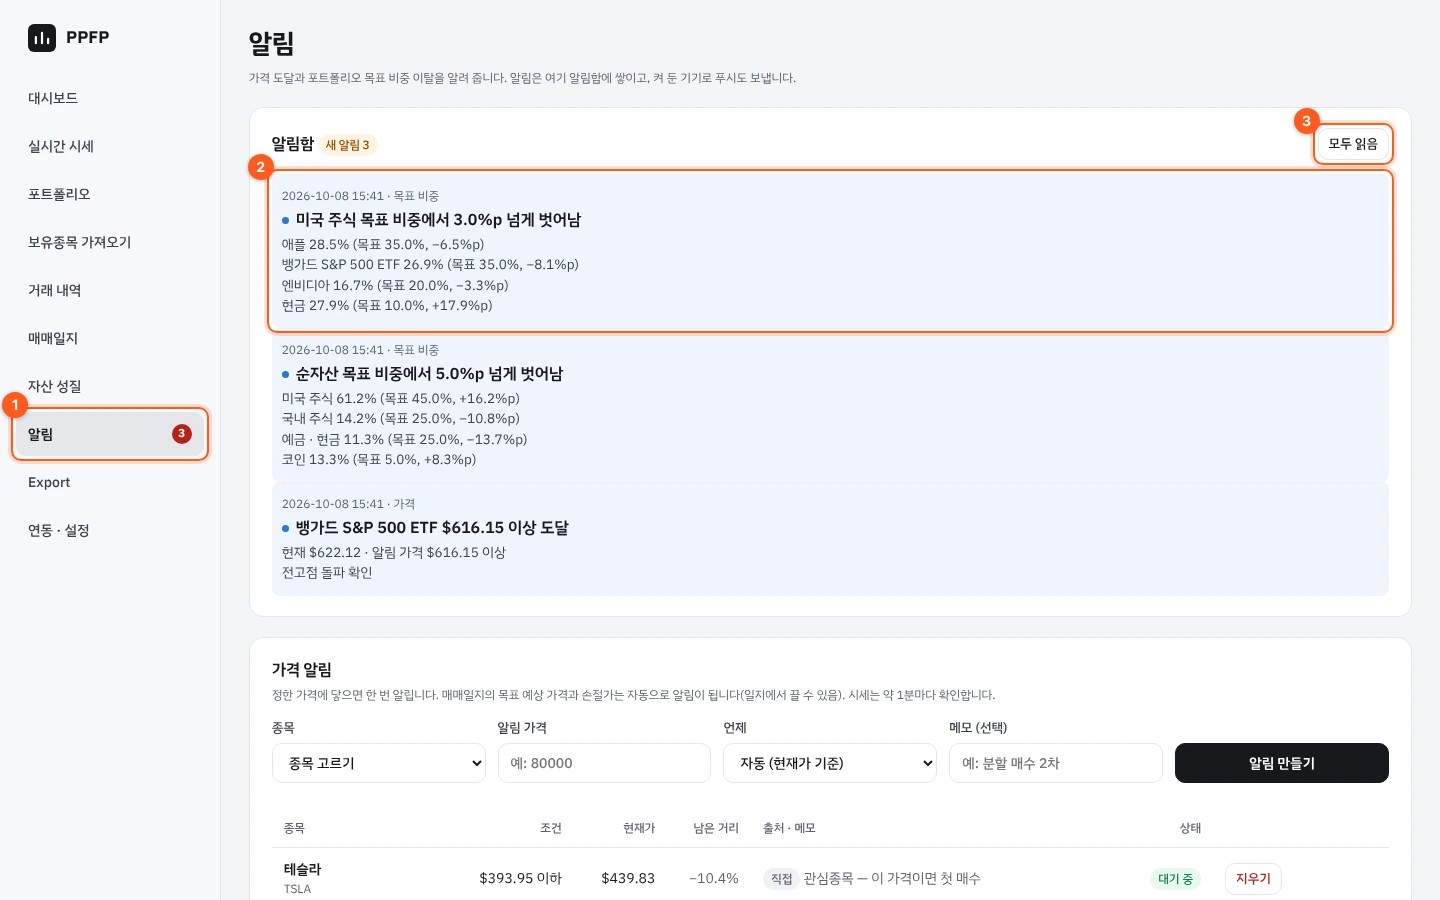
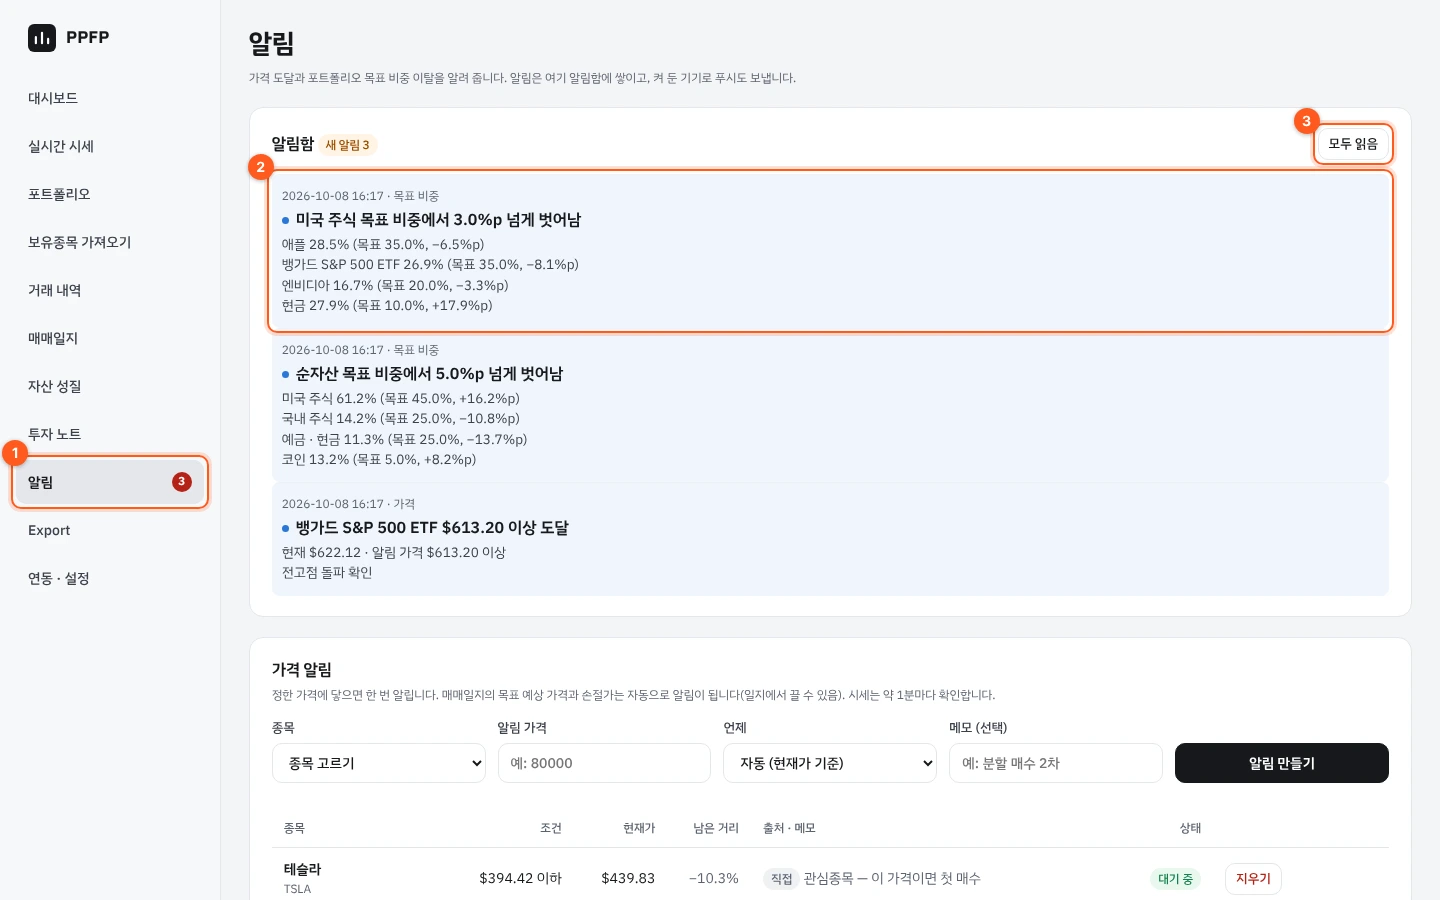
Document investment notes, with new screens
User guide chapter for memos, quick memo, book notes, investor profiles
and keywords, and how properties link them to traits and stocks. Notes on
the holding page card and the journal tree side window. Demo seed gains
investors, a book and memos; captures hide the memo button except on the
quick memo shot.

Claude-Session: https://claude.ai/code/session_019GZ27AZDMeKkp4rfYLN2LS

Changed region(s): [[0.0, 0.4356, 0.1562, 0.6533], [0.3438, 0.9644, 0.375, 0.9956]]

diff --git a/scripts/docs/capture.ts b/scripts/docs/capture.ts
@@ -62,6 +62,8 @@ interface Shot {
   /** Elements to crop to (their union, padded). Omit for the first screen. */
   clip?: Find[];
   pad?: number;
+  /** Keep the floating quick-memo button (hidden elsewhere so it does not cover content) */
+  memo?: boolean;
 }
 interface Ids {
   root: string;
@@ -73,6 +75,9 @@ interface Ids {
   allWeather: string;
   assetClass: string;
   equityStyle: string;
+  samsung: string;
+  buffett: string;
+  book: string;
 }
 
 const card = (heading: string, sel = 'h2'): Find => ({ sel, text: heading, closest: '.card' });
@@ -362,6 +367,68 @@ const SHOTS: Shot[] = [
     ],
     clip: [{ sel: '.bn-suggestion-menu' }, { sel: '.bn-editor [data-content-type="heading"]' }],
   },
+  {
+    file: 'notes',
+    path: () => '/notes',
+    wait: 2000,
+    clip: [{ sel: '.page-head' }, { sel: '.note-grid' }],
+    marks: [{ sel: '[aria-label="투자 노트"]' }, { sel: 'textarea', closest: '.card' }, { sel: '.hashtag' }, { sel: '.note-card .kchip', closest: '.inline' }, { sel: 'form[method="get"]' }],
+  },
+  {
+    file: 'quick-memo',
+    path: (ids) => `/holdings/${ids.samsung}`,
+    wait: 2000,
+    memo: true,
+    steps: [{ click: { sel: '.memo-fab' } }, { until: "!!document.querySelector('.memo-drawer textarea')" }, { set: { sel: '.memo-drawer textarea' }, value: '실적 발표 후 외국인 순매수 전환. 목표가 다시 점검 #가치투자' }, { wait: 600 }],
+    marks: [{ sel: '.memo-fab' }, { sel: '.memo-drawer textarea' }, { sel: '.memo-drawer .sub', text: 'Ctrl+Enter' }],
+  },
+  {
+    file: 'sages',
+    path: () => '/sages',
+    wait: 1500,
+    clip: [{ sel: 'h2', text: '내가 정리한 거장', closest: 'section' }, { sel: 'h2', text: '거장 추가', closest: 'section' }],
+    pad: 16,
+    marks: [{ sel: '.badge.ok' }, { sel: 'button.primary', text: '추가' }, { sel: 'button', text: '직접 추가' }],
+  },
+  {
+    file: 'sage-detail',
+    path: (ids) => `/sages/${ids.buffett}`,
+    wait: 4000,
+    width: 1280,
+    clip: [{ sel: '.doc-bar' }, { sel: 'details.card' }],
+    marks: [{ sel: '.props' }, { sel: 'span', text: '속성 —', closest: 'section' }, { sel: 'details.card .related' }],
+  },
+  {
+    file: 'book-detail',
+    path: (ids) => `/books/${ids.book}`,
+    wait: 4000,
+    width: 1280,
+    clip: [{ sel: '.doc-bar' }, { sel: '.doc-body' }],
+    marks: [{ sel: '[aria-label="읽은 상태"]' }, { sel: 'span', text: '속성 —', closest: 'section' }, { sel: 'details.card' }, { sel: '.doc-body' }],
+  },
+  {
+    file: 'topics',
+    path: () => '/topics',
+    wait: 2000,
+    width: 1280,
+    clip: [{ sel: '.topic-layout' }],
+    pad: 16,
+    marks: [{ sel: '[aria-label="키워드 목록"]' }, { sel: 'span', text: '연결 —', closest: 'div' }],
+  },
+  {
+    file: 'holding-knowledge',
+    path: (ids) => `/holdings/${ids.samsung}`,
+    wait: 2000,
+    width: 1280,
+    clip: [{ sel: '#knowledge' }],
+  },
+  {
+    file: 'journal-tree-related',
+    path: (ids) => `/journal?view=tree&by=${ids.equityStyle}`,
+    wait: 2500,
+    steps: [{ press: { sel: '.tree-node.k-category' } }, { until: "!!document.querySelector('.drawer.tree-detail .related')", timeout: 20_000 }, { wait: 800 }],
+    marks: [{ sel: '.tree-node.k-category' }, { sel: '.drawer.tree-detail .related' }],
+  },
   { file: 'export', path: () => '/export', wait: 1000, clip: [{ sel: 'main' }], pad: 0 },
   { file: 'mobile-market', path: () => '/market', wait: 5000, mobile: true, width: 390, height: 844, scale: 2 },
 ];
@@ -400,7 +467,7 @@ window.__docs = {
   },
   set(f, value) {
     const el = this.find(f);
-    const proto = el instanceof HTMLSelectElement ? HTMLSelectElement.prototype : HTMLInputElement.prototype;
+    const proto = el instanceof HTMLSelectElement ? HTMLSelectElement.prototype : el instanceof HTMLTextAreaElement ? HTMLTextAreaElement.prototype : HTMLInputElement.prototype;
     Object.getOwnPropertyDescriptor(proto, 'value').set.call(el, value);
     el.dispatchEvent(new Event('input', { bubbles: true }));
     el.dispatchEvent(new Event('change', { bubbles: true }));
@@ -514,6 +581,7 @@ async function capture(cdp: Cdp, shot: Shot, ids: Ids, token: string) {
       return r.result.value;
     };
     await run(PAGE_HELPERS);
+    if (!shot.memo) await run("document.head.insertAdjacentHTML('beforeend', '<style>.memo-fab{display:none!important}</style>')");
     for (const step of shot.steps ?? []) {
       if ('wait' in step) await sleep(step.wait);
       else if ('until' in step) {
@@ -611,6 +679,9 @@ async function main() {
       allWeather: (await db.traitGroup.findFirstOrThrow({ where: { preset: 'allWeather' } })).id,
       assetClass: (await db.traitGroup.findFirstOrThrow({ where: { preset: 'assetClass' } })).id,
       equityStyle: (await db.traitGroup.findFirstOrThrow({ where: { preset: 'equityStyle' } })).id,
+      samsung: (await db.holding.findFirstOrThrow({ where: { asset: { symbol: '005930' } } })).id,
+      buffett: (await db.sage.findFirstOrThrow({ where: { preset: 'buffett' } })).id,
+      book: (await db.book.findFirstOrThrow()).id,
     };
     await db.$disconnect();
 

diff --git a/scripts/docs/seed-demo.ts b/scripts/docs/seed-demo.ts
@@ -2,7 +2,8 @@
  * Fills an empty database with the fictional demo account used for the user
  * guide's screenshots: a portfolio tree, a year of stock trades, an imported
  * brokerage account, a replayed 업비트 history, a manual deposit, a few
- * trade journal entries, asset trait groups, price alerts and target weights.
+ * trade journal entries, asset trait groups, price alerts and target weights,
+ * and investment notes (memos, a book summary, investor profiles).
  *
  * Run by scripts/docs/capture.ts against its own throwaway database; never
  * against real data. Broker calls go to the fake servers in fake-market.cjs.
@@ -19,6 +20,7 @@ import { syncExchangeHistory } from '@/server/services/exchange-sync';
 import { importHoldings } from '@/server/services/imports';
 import { runDailyForUser } from '@/server/services/jobs';
 import { saveJournal, saveTemplate } from '@/server/services/journal';
+import { addLink, addPresetSage, createBook, createNote, saveBook } from '@/server/services/knowledge';
 import { checkDrift, checkPriceAlerts, createAlert, savePortfolioTargets } from '@/server/services/alerts';
 import { applyExampleTargets, createGroupFromPreset, saveGroup, setAssetTraits, trackWatchItem } from '@/server/services/traits';
 import { createPortfolio } from '@/server/services/portfolios';
@@ -133,6 +135,7 @@ async function main() {
   await seedJournals(uid);
   await seedTraits(uid);
   await seedAlerts(uid, { root: root.id, us: us.id });
+  await seedKnowledge(uid);
 
   const token = newToken();
   await prisma.session.create({ data: { id: sha256(token), userId: uid, expiresAt: new Date(Date.now() + D) } });
@@ -324,6 +327,41 @@ async function seedAlerts(uid: string, p: { root: string; us: string }) {
   await savePortfolioTargets(uid, p.us, { targets: { [await id('AAPL')]: '35', [await id('VOO')]: '35', [await id('NVDA')]: '20', CASH: '10' }, tolerance: '3', alert: true });
   await checkPriceAlerts(uid);
   await checkDrift(uid);
+}
+
+// ---------------------------------------------------------------- investment notes
+async function seedKnowledge(uid: string) {
+  for (const k of ['buffett', 'graham', 'lynch', 'bogle', 'dalio']) await addPresetSage(uid, k);
+  const graham = await prisma.sage.findFirstOrThrow({ where: { userId: uid, preset: 'graham' } });
+  const book = await createBook(uid, '현명한 투자자');
+  await saveBook(uid, book, {
+    title: '현명한 투자자',
+    author: '벤저민 그레이엄',
+    publisher: '국일증권경제연구소',
+    publishedYear: '1949',
+    status: 'DONE',
+    rating: '5',
+    startedAt: dash(ago(60)),
+    finishedAt: dash(ago(30)),
+    oneLine: '시장의 기분에 휘둘리지 말고, 안전마진을 두고 산다.',
+    content: [
+      { type: 'quote', content: '주식은 기업의 일부다. 미스터 마켓의 제안은 받아들일 수도, 무시할 수도 있다.' },
+      h2('핵심 아이디어'),
+      li('투자와 투기를 구분한다: 철저한 분석, 원금의 안전, 적절한 수익'),
+      li('미스터 마켓: 시장 가격은 매일 바뀌는 제안일 뿐, 따를 의무가 없다'),
+      li('안전마진: 내재가치보다 충분히 싸게 사서 판단 실수에 대비한다'),
+      h2('내 투자에 적용할 점'),
+      todo('매수 전에 일지에 내재가치 추정과 안전마진을 적는다', true),
+      todo('급락 때 공포가 아니라 가격 대비 가치로 판단한다'),
+    ],
+  });
+  const ref = { type: 'book' as const, id: book };
+  await addLink(uid, ref, { type: 'sage', id: graham.id });
+  for (const name of ['가치투자', '안전마진']) await addLink(uid, ref, { type: 'topic', id: (await prisma.topic.findFirstOrThrow({ where: { userId: uid, name } })).id });
+  const samsung = await prisma.holding.findFirstOrThrow({ where: { asset: { userId: uid, symbol: '005930' } } });
+  await createNote(uid, '반도체 업황 바닥 신호. PBR 1배 아래면 분할 매수 검토 #가치투자 #안전마진', `/holdings/${samsung.id}`);
+  await createNote(uid, '비중이 커진 종목은 감정이 아니라 목표 비중표로 정리하기 #리스크_관리 #자산배분', '/dashboard');
+  await createNote(uid, '린치: 내가 쓰는 제품의 회사부터 보기. 매일 쓰는 앱·결제 서비스 목록 만들어 보기 #성장투자', '/sages');
 }
 
 main()
